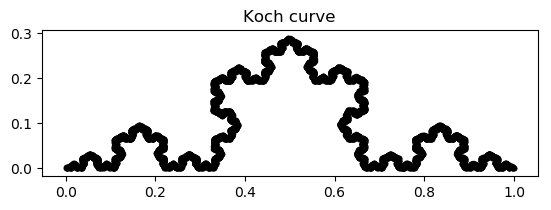
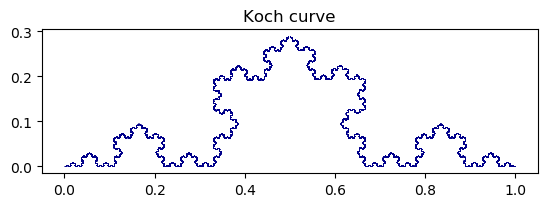
Updated figure style

diff --git a/src/main.py b/src/main.py
@@ -1,11 +1,10 @@
 import numpy as np
 import matplotlib.pyplot as plt
 import os
-from numpy import sin, cos, arctan, pi, absolute
 
 
 class Fractal:
-    def __init__(self, file_name, numits=10000):
+    def __init__(self, file_name, numits=100000):
         self.name = os.path.basename(file_name)
         self.data = np.loadtxt(file_name)
         self.x = np.empty(numits)
@@ -31,88 +30,15 @@ class Fractal:
         fig, ax = plt.subplots()
         ax.set_title(self.name.capitalize())
         ax.set_aspect('equal', 'box')
-        plt.scatter(self.x[:self.n], self.y[:self.n], marker=".", c='k')
+        plt.scatter(self.x[:self.n], self.y[:self.n], marker=".", c='k', linewidths=0.1, edgecolors='c', s=1)
         plt.savefig("../figures/{0}.png".format(self.name), bbox_inches="tight")
         plt.show()
 
-    def scale(self, k):
-        if self.data[k, 0] == 0.:
-            return self.data[k, 2]
-        elif self.data[k, 2] == 0.:
-            return self.data[k, 0]
-        else:
-            x = arctan(self.data[k, 2]/self.data[k, 0])
-            while True:
-                r = self.data[k, 2]/sin(x)
-                s = self.data[k, 0]/cos(x)
-                print(absolute(s - r))
-                if absolute(s - r) <= 0.0001:
-                    return s
-                else:
-                    x += pi/2
-
-    def fractal_dim(self):
-        return
-
-    def box_count(self, res):
-        x_min = np.amin(self.x)
-        x_max = np.amax(self.x)
-        y_min = np.amin(self.y)
-        y_max = np.amax(self.y)
-        step = min(abs(x_max - x_min)/res, abs(y_max - y_min)/res)
-        boxes = 0
-        box_total = 0
-        x_pos = x_min
-        y_pos = y_min
-        while x_pos < x_max:
-            i = 0
-            x_indices = []
-            for x_coordinate in self.x:
-                if np.logical_and(x_coordinate >= x_pos, x_coordinate < x_pos + step):
-                    x_indices.append(i)
-                i += 1
-            while y_pos < y_max:
-                for j in x_indices:
-                    if np.logical_and(self.y[j] >= y_pos, self.y[j] < y_pos + step):
-                        boxes += 1
-                        break
-                box_total += 1
-                y_pos += step
-            x_pos += step
-            y_pos = y_min
-        return boxes, step
-
-    def box_count_dim(self, res):
-        boxes, step = self.box_count(res)
-        return np.log(1/step)/np.log(boxes)
-
-    def box_counter(self):
-        boxes = []
-        magnification = []
-        i = 10
-        while i <= 100:
-            box, step = self.box_count(i)
-            boxes.append(np.log(box))
-            magnification.append(np.log(1/step))
-            i += 10
-        return np.array(boxes), np.array(magnification)
-
-    def box_count_plot(self):
-        boxes, magnification = self.box_counter()
-        print(boxes, '\n', magnification)
-        magnification = magnification[:, np.newaxis]
-        p, _, _, _ = np.linalg.lstsq(magnification, boxes)
-        plt.plot(magnification, boxes, 'o')
-        plt.plot(magnification, magnification*p)
-        plt.show()
-        print(p)
-
 
 def main():
-    test = Fractal("../data/dragon segment")
+    test = Fractal("../data/branches")
     test.ran_it()
     test.plotting()
-    # test.box_count_plot()
 
 
 if __name__ == "__main__":
